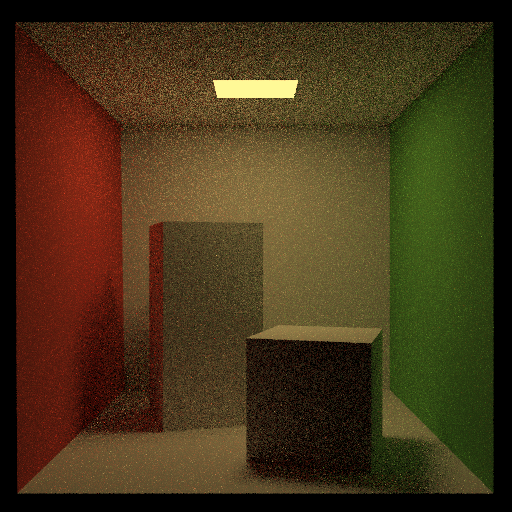
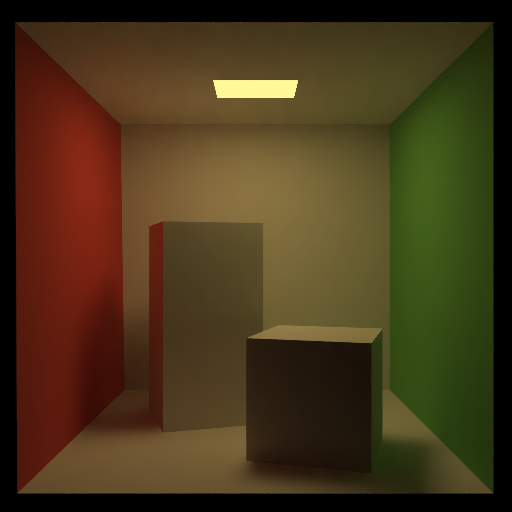
done

Changed region(s): [[0.0312, 0.0312, 0.9688, 0.4062], [0.125, 0.4062, 0.875, 0.9688]]

diff --git a/pathtracer.cpp b/pathtracer.cpp
@@ -203,6 +203,11 @@ void PathTracer::traceScene(QRgb *imageData, const Scene& scene)
             for(int s = 0; s < samplesPerPixel; ++s) {
                 float jitterX = x + (getRandom() - 0.5f);
                 float jitterY = y + (getRandom() - 0.5f);
+                // float ldsX = vanDerCorput(s, 2);
+                // float ldsY = vanDerCorput(s, 3);
+
+                // float jitterX = x + ldsX - 0.5f;
+                // float jitterY = y + ldsY - 0.5f;
                 RenderResult res = tracePixel(jitterX, jitterY, scene, invViewMat);
                 // if (s == 0) {
                 //     r_res[x + (y * m_width)].albedo = res.albedo;
@@ -229,12 +234,13 @@ void PathTracer::traceScene(QRgb *imageData, const Scene& scene)
             //         float jitterX = x + (p + getRandom()) * invN - 0.5f;
             //         float jitterY = y + (q + getRandom()) * invN - 0.5f;
 
-            //         accumulatedRadiance += tracePixel(jitterX, jitterY, scene, invViewMat);
+            //         accumulatedRadiance += tracePixel(jitterX, jitterY, scene, invViewMat).radiance;
             //     }
             // }
             // intensityValues[x + (y * m_width)] = accumulatedRadiance / (float)(n * n);
         }
     }
+    // fixed function sampling
     // aTrousWavelet(r_res, m_width, m_height);
     // for (int i = 0; i < r_res.size(); i++) {
     //     intensityValues[i] = r_res[i].radiance;
@@ -437,23 +443,23 @@ Vector3f PathTracer::traceRay(const Ray& r, const Scene& scene, bool count_emitt
                 }
 
                 // Beer's law
-                // Vector3f attenuation(1.0f, 1.0f, 1.0f);
-                // if (!entering) {
-                //     float dist = (p.hit - r.o).norm();
+                Vector3f attenuation(1.0f, 1.0f, 1.0f);
+                if (!entering) {
+                    float dist = (p.hit - r.o).norm();
 
                     // red
                     // Vector3f absorption(0.1f, 4.0f, 4.0f);
 
                     // green
-                    // Vector3f absorption(1.5f, 0.2f, 1.2f);
+                    Vector3f absorption(1.5f, 0.0f, 0.0f);
 
                     // blue
                     // Vector3f absorption(0.2f, 0.05f, 0.01f);
 
-                //     attenuation.x() = std::exp(-absorption[0] * dist);
-                //     attenuation.y() = std::exp(-absorption[1] * dist);
-                //     attenuation.z() = std::exp(-absorption[2] * dist);
-                // }
+                    attenuation.x() = std::exp(-absorption[0] * dist);
+                    attenuation.y() = std::exp(-absorption[1] * dist);
+                    attenuation.z() = std::exp(-absorption[2] * dist);
+                }
 
                 Ray nextRay(p.hit + (orienting_N * 0.0001f * offset_multiplier), nextDir);
 

diff --git a/submission-final.md b/submission-final.md
@@ -33,25 +33,54 @@ Please do not attempt to duplicate the given reference images; we have tools to 
 
 Please link to the lines (in GitHub) where the implementation of these features start:
 
-- [Diffuse Reflection]()
-- [Glossy Reflection]()
-- [Mirror Reflection]()
-- [Refraction (with Fresnel refletion)]()
-- [Soft Shadows]()
-- [Illumination]()
-- [Russian Roulette path termination]()
-- [Event Splitting]()
-- [Tone Mapping]()
+- [Diffuse Reflection]() -> pathtracer.c++ lines 469 to 504
+- [Glossy Reflection]() -> pathtracer.c++ lines 469 to 504
+- [Mirror Reflection]() -> pathtracer.c++ lines 405 to 410
+- [Refraction (with Fresnel refletion)]() -> pathtracer.c++ lines 411 to 466
+- [Soft Shadows]() -> pathtracer.c++ lines 281 to 360
+- [Illumination]() -> pathtracer.c++ lines 281 to 360 or 544 to 591
+- [Russian Roulette path termination]() -> pathtracer.c++ line 404
+- [Event Splitting]() -> pathtracer.c++ lines 281 to 360 and 397 to 400
+- [Tone Mapping]() -> pathtracer.c++ 544 to 591
+- [Stratified Sampling]() -> pathtracer.c++ 228 to 240
+- [Fixed function denoising]() -> pathtracer.c++ 70 to 185
+- [Learned denoising]() -> model.py and test_data, train_data folders
+- [Low discrepancy sampling]() -> pathtracer.c++ 37 to 50
+- [Attenuate refracted paths]() -> pathtracer.c++ 445 to 462
 - Any extra features
 
 ### Design Choices
 
 Please list all the features your path tracer implements.
 
+Diffuse, Glossy, Mirror reflection, Refraction (with Fresnel reflection), Soft shadows, illumination, tone mapping, event splitting, stratified sampling, fixed function denoising, learned denoising, low discrepancy sampling, attentuate refracted paths. 
+
 ### Extra Features
 
 Briefly explain your implementation of any extra features, provide output images, and describe what each image demonstrates.
 
+Here is the fixed function denoising. I using 50 samples per pixel for both outputs, the first one is without fixed function and the second picture is with fixed function denoising. As you see there is a big difference and it is more smooth:
+
+![](student_outputs/final/cornell_box_full_lighting.png) | ![](student_outputs/extra/cornell_box_full_lighting.png)
+
+Here is my stratified sampling (left is stratified right is normal):
+
+![](student_outputs/extra/cornell_box_full_lighting_strat.png) | ![](student_outputs/extra/cornell_box_full_lighting_strat_norm.png)
+
+Here is my Learned Denoising:
+
+![](scene01_learned.png) | ![](student_outputs/extra/cornell_box_full_lighting_noisy.png)
+
+Here is my low discrepancy sampling:
+
+![](student_outputs/extra/cornell_box_full_lighting_disc.png) | ![](student_outputs/extra/cornell_box_full_lighting_strat_norm.png)
+
+Here is my refracted paths:
+
+![](student_outputs/final/refraction.png) | ![](student_outputs/extra/refraction_new.png)
+
 ### Collaboration/References
 
 ### Known Bugs
+
+My light is slightly brighter than the reference light and I am not sure why that is the case. Also for my learned denoising I really tried hard to get it to work by generating my own testing sets from the testing files we had. Then I made my own architecture and tested many parameters and some changes but none of them fully worked with my training data. 
